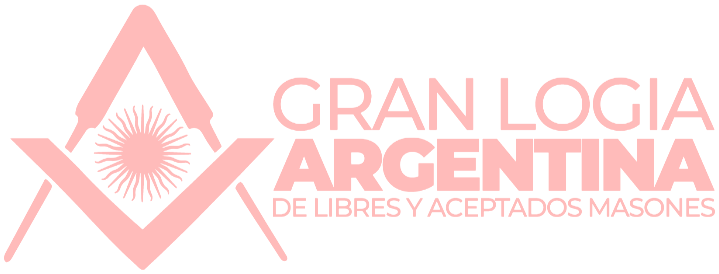
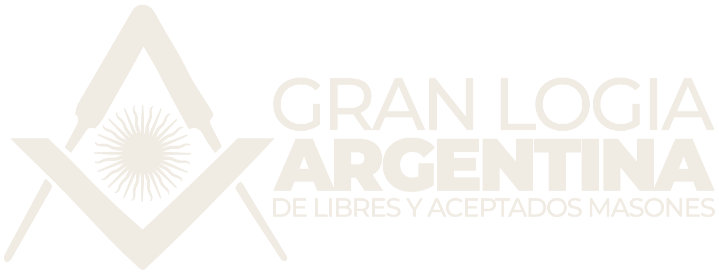
feat(landing): red palette with bone white text
Text, isologotype, favicon and selection move from pink to a muted bone
white (#f0ebe3); the footer deepens to an oxblood red (#8a0b12) with
#b0262c rules, and the bottom veil takes the footer's red. Footer text
contrast rises from 4.99:1 to 8.28:1.

Refs: T2k (S5, S7, S8.d, S9.b) in odd/tasks/landing-pueyrredon.md

Claude-Session: https://claude.ai/code/session_014GVJ2SRgQawxeLtUmD8ruJ

Changed region(s): [[0.0, 0.0, 1.0, 0.9927]]

diff --git a/tests/landing.spec.js b/tests/landing.spec.js
@@ -54,19 +54,12 @@ const PANORAMA_PATH = '/assets/img/pueyrredon-panorama.jpg';
 const PANORAMA_MAX_BYTES = 700 * 1000; // S2.b: ≤ 700 KB (lectura estricta, igual que el script)
 
 const TOKENS = {
+  '--blanco': '#f0ebe3',
   '--rojo-950': '#1b0303',
-  '--rojo-900': '#400001',
-  '--rojo-800': '#7c0000',
-  '--rojo-700': '#a60000',
-  '--rojo-600': '#ce0201',
-  '--carmesi-700': '#81001f',
-  '--carmesi-500': '#a41727',
-  '--carmesi-300': '#ca302e',
-  '--oxido-600': '#9b1307',
-  '--rosa-300': '#ff7a7b',
-  '--rosa-100': '#ffbbba',
-  '--tinta': '#1c1c26',
+  '--rojo-800': '#8a0b12',
+  '--rojo-600': '#b0262c',
 };
+const FOOTER_MIN_CONTRAST = 7; // S7.f (L29): texto del pie ≥ 7:1 (AAA)
 
 const TITLE = 'Juan Martín De Pueyrredón';
 const KICKER = 'Respetable Logia';
@@ -511,7 +504,7 @@ test.describe('S4 — Título centrado, pequeño y arriba', () => {
 });
 
 test.describe('S5 — Paleta de la foto adjunta', () => {
-  test('S5.a — los 12 tokens existen en :root con valores exactos', async ({ page }) => {
+  test('S5.a — los 4 tokens existen en :root con valores exactos', async ({ page }) => {
     const values = await page.evaluate((names) => {
       const cs = getComputedStyle(document.documentElement);
       return Object.fromEntries(names.map((n) => [n, cs.getPropertyValue(n).trim()]));
@@ -636,13 +629,25 @@ test.describe('S7 — Pie con el formato de Tamburins, en la paleta, solo Lorem 
         /* se informa vía naturalWidth */
       }
       let cornerAlpha = -1;
+      // L29: color de los píxeles opacos (alfa 255) del PNG; deben ser --blanco (240, 235, 227) ±1.
+      let opaquePixels = 0;
+      let offPaletteOpaque = 0;
+      let firstOpaque = null;
       if (el.naturalWidth > 0) {
         const canvas = document.createElement('canvas');
         canvas.width = el.naturalWidth;
         canvas.height = el.naturalHeight;
         const ctx = canvas.getContext('2d');
         ctx.drawImage(el, 0, 0);
-        cornerAlpha = ctx.getImageData(0, 0, 1, 1).data[3];
+        const { data } = ctx.getImageData(0, 0, canvas.width, canvas.height);
+        cornerAlpha = data[3];
+        const target = [240, 235, 227];
+        for (let i = 0; i < data.length; i += 4) {
+          if (data[i + 3] !== 255) continue;
+          opaquePixels += 1;
+          if (!firstOpaque) firstOpaque = [data[i], data[i + 1], data[i + 2]];
+          if (target.some((v, c) => Math.abs(data[i + c] - v) > 1)) offPaletteOpaque += 1;
+        }
       }
       const p = /** @type {HTMLElement} */ (el.closest('p.pie__auspicio'));
       const textNode = [...p.childNodes].find((n) => n.nodeType === Node.TEXT_NODE && (n.textContent || '').trim());
@@ -659,6 +664,9 @@ test.describe('S7 — Pie con el formato de Tamburins, en la paleta, solo Lorem 
         alt: el.alt,
         naturalWidth: el.naturalWidth,
         cornerAlpha,
+        opaquePixels,
+        offPaletteOpaque,
+        firstOpaque,
         imgTop: r.top,
         imgLeft: r.left,
         imgRight: r.right,
@@ -677,6 +685,16 @@ test.describe('S7 — Pie con el formato de Tamburins, en la paleta, solo Lorem 
     expect(m.alt, 'alt del isologotipo').toBe(LOGO_ALT);
     expect(m.naturalWidth, 'el isologotipo no cargó').toBeGreaterThan(0);
     expect(m.cornerAlpha, `alfa del píxel (0,0) = ${m.cornerAlpha}`).toBe(0);
+    // L29: el isologotipo es blanco hueso (--blanco, rgb(240, 235, 227) ±1) en todos sus píxeles opacos.
+    expect(m.opaquePixels, 'el isologotipo no tiene píxeles con alfa 255').toBeGreaterThan(0);
+    expect(m.firstOpaque, 'primer píxel con alfa 255 del isologotipo').toEqual(expect.any(Array));
+    ['R', 'G', 'B'].forEach((channel, c) => {
+      expect(
+        Math.abs(/** @type {number[]} */ (m.firstOpaque)[c] - [240, 235, 227][c]),
+        `canal ${channel} del primer píxel opaco = ${/** @type {number[]} */ (m.firstOpaque)[c]} (esperado ${[240, 235, 227][c]} ±1)`,
+      ).toBeLessThanOrEqual(1);
+    });
+    expect(m.offPaletteOpaque, `${m.offPaletteOpaque} de ${m.opaquePixels} píxeles opacos del isologotipo no son rgb(240, 235, 227) ±1`).toBe(0);
     expect(m.imgTop, `img top ${m.imgTop.toFixed(1)} vs fondo del texto ${m.textBottom.toFixed(1)}: el logo va debajo del texto`).toBeGreaterThanOrEqual(m.textBottom);
     expect(m.width, `ancho del logo: ${m.width.toFixed(1)}px`).toBeGreaterThanOrEqual(LOGO_MIN_WIDTH);
     expect(m.width, `ancho del logo: ${m.width.toFixed(1)}px`).toBeLessThanOrEqual(LOGO_MAX_WIDTH);
@@ -699,7 +717,7 @@ test.describe('S7 — Pie con el formato de Tamburins, en la paleta, solo Lorem 
     expect.soft(Math.abs(m.width - LOGO_WIDTH), `ancho del logo ${m.width.toFixed(1)}px vs ${LOGO_WIDTH}px (±1)`).toBeLessThanOrEqual(1);
   });
 
-  test('S7.h — el isologotipo está dentro de un único enlace a la Gran Logia (nueva pestaña, noopener, nombre accesible) con foco de teclado visible en --rosa-100', async ({ page }) => {
+  test('S7.h — el isologotipo está dentro de un único enlace a la Gran Logia (nueva pestaña, noopener, nombre accesible) con foco de teclado visible en --blanco', async ({ page }) => {
     const links = page.locator('footer a');
     await expect(links, 'el footer debe tener exactamente un a').toHaveCount(1);
     await expect(links.locator('img.pie__logo'), 'el a debe envolver al isologotipo').toHaveCount(1);
@@ -723,7 +741,7 @@ test.describe('S7 — Pie con el formato de Tamburins, en la paleta, solo Lorem 
     expect(outline.visible, 'el enlace debe coincidir con :focus-visible').toBe(true);
     expect(outline.style, `outline-style: ${outline.style}`).not.toBe('none');
     expect(parseFloat(outline.width), `outline-width: ${outline.width}`).toBeGreaterThan(0);
-    expect(outline.color, 'outline-color').toBe('rgb(255, 187, 186)');
+    expect(outline.color, 'outline-color').toBe('rgb(240, 235, 227)');
   });
 
   test('S7.e — formato: alineado a la izquierda, filete de 1 px en los bloques 2–4 (no en el 1), colores de la paleta', async ({ page }) => {
@@ -763,7 +781,7 @@ test.describe('S7 — Pie con el formato de Tamburins, en la paleta, solo Lorem 
     });
   });
 
-  test('S7.f — fondo del pie rojo (--rojo-700), filetes --carmesi-300 y contraste ≥ 4.5:1', async ({ page }) => {
+  test('S7.f — fondo del pie lacre (--rojo-800), filetes --rojo-600 y contraste ≥ 7:1', async ({ page }) => {
     const info = await page.evaluate(() => {
       const footer = document.querySelector('footer');
       return {
@@ -774,16 +792,16 @@ test.describe('S7 — Pie con el formato de Tamburins, en la paleta, solo Lorem 
         }),
       };
     });
-    expect(info.footerBackground, 'fondo del footer').toBe('rgb(166, 0, 0)');
+    expect(info.footerBackground, 'fondo del footer').toBe('rgb(138, 11, 18)');
     expect(info.blocks).toHaveLength(4);
     info.blocks.slice(1).forEach((b, i) => {
-      expect(b.borderTopColor, `bloque ${i + 2}: filete`).toBe('rgb(202, 48, 46)');
+      expect(b.borderTopColor, `bloque ${i + 2}: filete`).toBe('rgb(176, 38, 44)');
     });
     const toRgb = (css) => rgbKey(css).split(',').map(Number);
     const background = toRgb(info.footerBackground);
     info.blocks.forEach((b, i) => {
       const ratio = contrastRatio(toRgb(b.color), background);
-      expect(ratio, `bloque ${i + 1}: contraste ${b.color} sobre ${info.footerBackground} = ${ratio.toFixed(2)}:1`).toBeGreaterThanOrEqual(4.5);
+      expect(ratio, `bloque ${i + 1}: contraste ${b.color} sobre ${info.footerBackground} = ${ratio.toFixed(2)}:1`).toBeGreaterThanOrEqual(FOOTER_MIN_CONTRAST);
     });
   });
 });
@@ -828,7 +846,7 @@ test.describe('S8 — Calidad base', () => {
       expect(boxes, 'falta hgroup.titulo con p.titulo__antetitulo (L24)').not.toBeNull();
       // Fondo sin texto: se ocultan el h1 y el antetítulo.
       await page.addStyleTag({ content: 'h1, .titulo__antetitulo { visibility: hidden !important; }' });
-      const textColor = [0xff, 0xbb, 0xba]; // --rosa-100
+      const textColor = [0xf0, 0xeb, 0xe3]; // --blanco
       for (const [name, b] of Object.entries(/** @type {NonNullable<typeof boxes>} */ (boxes))) {
         const x = Math.floor(b.left);
         const y = Math.floor(b.top);
@@ -837,7 +855,7 @@ test.describe('S8 — Calidad base', () => {
         const ratio = contrastRatio(textColor, avg);
         expect.soft(
           ratio,
-          `${name}: contraste ${ratio.toFixed(2)}:1 de #ffbbba sobre fondo promedio rgb(${avg.map(Math.round).join(', ')})`,
+          `${name}: contraste ${ratio.toFixed(2)}:1 de #f0ebe3 sobre fondo promedio rgb(${avg.map(Math.round).join(', ')})`,
         ).toBeGreaterThanOrEqual(4.5);
       }
     });
@@ -908,7 +926,7 @@ test.describe('S9 — Refinamiento visual (revisión de estilo, L21)', () => {
     expect(Math.max(...lefts) - Math.min(...lefts), `bordes izquierdos no alineados (±1 px): ${detail}`).toBeLessThanOrEqual(1);
   });
 
-  test('S9.b — ::selection usa --rosa-100 de fondo y --rojo-700 de texto', async ({ page }) => {
+  test('S9.b — ::selection usa --blanco de fondo y --rojo-800 de texto', async ({ page }) => {
     const selections = await page.evaluate(() =>
       ['body', 'h1', 'footer p'].map((sel) => {
         const cs = getComputedStyle(document.querySelector(sel), '::selection');
@@ -916,8 +934,8 @@ test.describe('S9 — Refinamiento visual (revisión de estilo, L21)', () => {
       }),
     );
     for (const s of selections) {
-      expect(rgbKey(s.background), `${s.sel}::selection background: ${s.background}`).toBe(hexToRgbKey(TOKENS['--rosa-100']));
-      expect(rgbKey(s.color), `${s.sel}::selection color: ${s.color}`).toBe(hexToRgbKey(TOKENS['--rojo-700']));
+      expect(rgbKey(s.background), `${s.sel}::selection background: ${s.background}`).toBe(hexToRgbKey(TOKENS['--blanco']));
+      expect(rgbKey(s.color), `${s.sel}::selection color: ${s.color}`).toBe(hexToRgbKey(TOKENS['--rojo-800']));
     }
   });
 
@@ -928,7 +946,7 @@ test.describe('S9 — Refinamiento visual (revisión de estilo, L21)', () => {
     await expect(page.locator('meta[name="color-scheme"]')).toHaveAttribute('content', 'dark');
   });
 
-  test('S9.d — link rel="icon" apunta a assets/favicon.svg, que responde 200 image/svg+xml', async ({ page, request }) => {
+  test('S9.d — link rel="icon" apunta a assets/favicon.svg, que responde 200 image/svg+xml, con fondo --rojo-800 y «P» --blanco', async ({ page, request }) => {
     const link = page.locator('link[rel="icon"]');
     await expect(link, 'falta <link rel="icon">').toHaveCount(1);
     const href = await link.getAttribute('href');
@@ -938,7 +956,11 @@ test.describe('S9 — Refinamiento visual (revisión de estilo, L21)', () => {
     const res = await request.get('/assets/favicon.svg');
     expect(res.status(), 'GET /assets/favicon.svg').toBe(200);
     expect(res.headers()['content-type']).toContain('image/svg+xml');
-    expect(await res.text(), 'el favicon no es un SVG').toContain('<svg');
+    const svg = await res.text();
+    expect(svg, 'el favicon no es un SVG').toContain('<svg');
+    // L29: fondo --rojo-800 y letra --blanco.
+    expect(svg, 'fondo del favicon (--rojo-800)').toContain(TOKENS['--rojo-800']);
+    expect(svg, 'letra del favicon (--blanco)').toContain(TOKENS['--blanco']);
   });
 
   test('S9.d — ninguna petición al cargar la página (contexto limpio) termina en 404', async ({ browser, baseURL }) => {

diff --git a/css/styles.css b/css/styles.css
@@ -1,16 +1,9 @@
 :root {
-  --rojo-950: #1b0303;
-  --rojo-900: #400001;
-  --rojo-800: #7c0000;
-  --rojo-700: #a60000;
-  --rojo-600: #ce0201;
-  --carmesi-700: #81001f;
-  --carmesi-500: #a41727;
-  --carmesi-300: #ca302e;
-  --oxido-600: #9b1307;
-  --rosa-300: #ff7a7b;
-  --rosa-100: #ffbbba;
-  --tinta: #1c1c26;
+  /* Paleta roja (L29): blanco hueso para todo el texto y el isologotipo; rojo lacre, más hondo que el #a60000 anterior. */
+  --blanco: #f0ebe3; /* blanco hueso: apagado, sin tinte rosado (a* ≈ 0) */
+  --rojo-950: #1b0303; /* fondo del documento, theme-color, banda superior del velo y sombra del título */
+  --rojo-800: #8a0b12; /* lacre: fondo del pie, tinte del velo inferior, texto de la selección, favicon */
+  --rojo-600: #b0262c; /* filetes del pie: visibles pero quietos sobre --rojo-800 (1,48:1) */
 }
 
 html,
@@ -28,8 +21,8 @@ body {
 }
 
 ::selection {
-  background: var(--rosa-100);
-  color: var(--rojo-700);
+  background: var(--blanco);
+  color: var(--rojo-800);
 }
 
 /* Hero a sangre completa: alto exacto del viewport. Capas, de atrás hacia adelante:
@@ -56,9 +49,9 @@ body {
   object-position: 47% 15%;
 }
 
-/* Velo de la paleta (L22, "sombra + corte"): banda superior para el título y, abajo, --carmesi-700 *multiplicado* con
-   el cuadro (no superpuesto con alfa, que daba un lila): la base se hunde en una sombra borravino casi negra y pasa
-   al rojo del pie con un corte limpio. El rostro (14–68 %) queda sin velo. */
+/* Velo de la paleta (L22, "sombra + corte"): banda superior para el título y, abajo, el rojo del pie (--rojo-800)
+   *multiplicado* con el cuadro (no superpuesto con alfa, que daba un lila): la base se hunde en una sombra lacre casi
+   negra, del mismo tono que el pie, y pasa a él con un corte limpio. El rostro (14–68 %) queda sin velo. */
 .hero::after {
   content: "";
   position: absolute;
@@ -70,8 +63,8 @@ body {
     to bottom,
     rgb(27 3 3 / 0.55) 0,
     rgb(27 3 3 / 0) 14%,
-    rgb(129 0 31 / 0) 68%,
-    rgb(129 0 31 / 0.7) 100%
+    rgb(138 11 18 / 0) 68%,
+    rgb(138 11 18 / 0.7) 100%
   );
 }
 
@@ -104,7 +97,7 @@ body {
   z-index: 2;
   transform: translateX(-50%);
   margin: 0;
-  color: var(--rosa-100);
+  color: var(--blanco);
   text-align: center;
   text-transform: uppercase;
   white-space: nowrap;
@@ -134,7 +127,7 @@ body {
 .pie {
   --pie-margen: clamp(24px, 4.5vw, 64px);
   margin: 0;
-  background: var(--rojo-700);
+  background: var(--rojo-800);
 }
 
 .pie__bloque {
@@ -144,14 +137,14 @@ body {
 }
 
 .pie__bloque + .pie__bloque {
-  border-top: 1px solid var(--carmesi-300);
+  border-top: 1px solid var(--rojo-600);
 }
 
 .pie__secciones {
   display: grid;
   gap: 32px;
   padding-block: 56px;
-  color: var(--rosa-100);
+  color: var(--blanco);
   font-size: clamp(18px, 1.4vw, 20px);
   line-height: 1.3;
   list-style: none;
@@ -161,7 +154,7 @@ body {
   /* Medida de 60ch (≤ 64ch, S9): con Times a 14 px son ≈ 70 caracteres por renglón, bajo el tope de 75 (64ch daba 78).
      La caja (y su filete) sigue a ancho completo. */
   padding-inline-end: max(var(--pie-margen), calc(100% - var(--pie-margen) - 60ch));
-  color: var(--rosa-100);
+  color: var(--blanco);
   font-size: 14px;
   line-height: 1.7;
   text-wrap: pretty;
@@ -174,7 +167,7 @@ body {
 }
 
 /* Auspicio (L24): "Bajo los auspicios de la" y, debajo, el isologotipo de la Gran Logia como enlace (L25). El logo es un
-   PNG transparente en --rosa-100. El enlace es de bloque (y ajustado al logo) para que quede siempre debajo del texto.
+   PNG transparente en --blanco. El enlace es de bloque (y ajustado al logo) para que quede siempre debajo del texto.
    La leyenda va en mayúsculas espaciadas, como el antetítulo del hero, y continúa en las mayúsculas del logotipo. */
 .pie .pie__auspicio {
   font-size: 12px;
@@ -195,7 +188,7 @@ body {
 }
 
 .pie__enlace:focus-visible {
-  outline: 1px solid var(--rosa-100);
+  outline: 1px solid var(--blanco);
   outline-offset: 6px;
 }
 

diff --git a/scripts/build_logo.py b/scripts/build_logo.py
@@ -8,7 +8,7 @@ Pasos
   1. Carga el original como RGB e imprime la luminancia (Rec. 601, 0-255) de las 4 esquinas.
      Deben quedar en ALPHA_LOW o por debajo (el fondo es negro casi puro).
   2. Alfa a partir de la luminancia con rampa suave: 0 en L <= 40, 255 en L >= 215.
-  3. RGB fijo en el token --rosa-100 (#ffbbba); solo se conserva el alfa del paso 2.
+  3. RGB fijo en el token --blanco (#f0ebe3, blanco hueso); solo se conserva el alfa del paso 2.
   4. Recorta a la caja de alfa > 0 con un margen transparente de 4 px.
   5. Guarda RGBA optimizado y sin metadatos en un temporal, lo verifica y luego lo reemplaza.
   6. Verifica: el pixel superior izquierdo tiene alfa 0 y hay al menos un pixel con alfa 255.
@@ -26,7 +26,7 @@ ROOT = os.path.dirname(os.path.dirname(os.path.abspath(__file__)))
 ORIGINAL = os.path.join(ROOT, "assets", "src", "gran-logia-argentina-original.png")
 OUTPUT = os.path.join(ROOT, "assets", "img", "gran-logia-argentina.png")
 
-ROSA_100 = (255, 187, 186)  # --rosa-100: #ffbbba
+BLANCO = (240, 235, 227)  # --blanco: #f0ebe3
 ALPHA_LOW, ALPHA_HIGH = 40, 215  # L <= 40 -> alfa 0; L >= 215 -> alfa 255
 MARGIN = 4  # px transparentes alrededor de la caja de alfa > 0
 
@@ -66,10 +66,10 @@ def main():
     if background > ALPHA_LOW:
         fail(f"una esquina tiene luminancia {background:.1f} > {ALPHA_LOW}; el fondo no queda transparente")
 
-    # 2-3. Alfa desde luminancia; RGB fijo en --rosa-100
+    # 2-3. Alfa desde luminancia; RGB fijo en --blanco
     alpha = alpha_from_luminance(lum)
     rgba = np.empty((h, w, 4), dtype=np.uint8)
-    rgba[..., :3] = ROSA_100
+    rgba[..., :3] = BLANCO
     rgba[..., 3] = alpha
     image = Image.fromarray(rgba)
 

diff --git a/README.md b/README.md
@@ -6,16 +6,14 @@ Landing de una sola pantalla con el formato minimalista de tamburins.com (solo e
 
 - Panorama a sangre completa (`object-fit: cover`): el retrato original pegado píxel a píxel entre dos costados de nubes; sin fondo desenfocado y con la cabeza entera en los viewports probados (S2.d).
 - Título pequeño arriba, centrado, en mayúsculas: "Respetable Logia" sobre el nombre, en proporción áurea (tamaño ×φ, separación ÷φ, tracking ×φ), con renglones a la altura de mayúsculas y el bloque colocado entre el borde del hero y la cabeza en 1 : φ; sin menú.
-- Paleta roja de la foto adjunta: 12 tokens declarados en `:root`.
+- Paleta roja con blanco hueso: 4 tokens declarados en `:root`. Todo el texto y el isologotipo van en un blanco apagado, sin tinte rosado, y el pie en un rojo lacre profundo (contraste del texto del pie 8,28:1).
 
-| Token | Hex | Token | Hex |
-|---|---|---|---|
-| `--rojo-950` | `#1b0303` | `--carmesi-500` | `#a41727` |
-| `--rojo-900` | `#400001` | `--carmesi-300` | `#ca302e` |
-| `--rojo-800` | `#7c0000` | `--oxido-600` | `#9b1307` |
-| `--rojo-700` | `#a60000` | `--rosa-300` | `#ff7a7b` |
-| `--rojo-600` | `#ce0201` | `--rosa-100` | `#ffbbba` |
-| `--carmesi-700` | `#81001f` | `--tinta` | `#1c1c26` |
+| Token | Hex | Uso |
+|---|---|---|
+| `--blanco` | `#f0ebe3` | todo el texto, isologotipo, «P» del favicon, foco y fondo de la selección |
+| `--rojo-950` | `#1b0303` | fondo del documento, `theme-color`, banda superior del velo |
+| `--rojo-800` | `#8a0b12` | fondo del pie, tinte del velo inferior, favicon, texto de la selección |
+| `--rojo-600` | `#b0262c` | filetes de 1 px del pie |
 
 - Times New Roman (con respaldos), sin fuentes web.
 - Pie: tres renglones, filetes finos, un párrafo y © en Lorem ipsum, más el bloque "BAJO LOS AUSPICIOS DE LA" (mayúsculas espaciadas) con el isologotipo de la Gran Logia Argentina (260 px), que enlaza a https://www.masoneria-argentina.org.ar/ en una pestaña nueva.
@@ -28,10 +26,11 @@ Landing de una sola pantalla con el formato minimalista de tamburins.com (solo e
 ├── css/styles.css                   tokens, layout y pie
 ├── assets/img/pueyrredon.jpg        retrato optimizado
 ├── assets/img/pueyrredon-panorama.jpg  panorama del hero (generado, ≤ 700 KB)
-├── assets/img/gran-logia-argentina.png isologotipo de la Gran Logia (PNG transparente en --rosa-100)
+├── assets/img/gran-logia-argentina.png isologotipo de la Gran Logia (PNG transparente en --blanco)
 ├── assets/src/pueyrredon-gemini.jpg extensión lateral hecha con Gemini (fuente)
 ├── assets/src/gran-logia-argentina-original.png  isologotipo original, blanco sobre negro (fuente)
 ├── scripts/build_panorama.py        genera el panorama (Python 3 + Pillow + numpy)
+├── scripts/build_logo.py            genera el isologotipo en --blanco desde el original
 ├── tests/landing.spec.js            tests Playwright
 ├── playwright.config.js             Chromium 1440×900, puerto 4173
 ├── odd/tasks/landing-pueyrredon.md  documento de feature (Specs, Tasks, Log)
